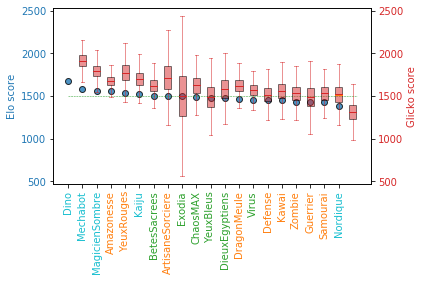
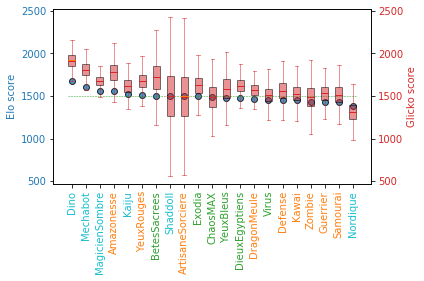
Fixed labels in show_scores(boplot=True)

diff --git a/ygostats.py b/ygostats.py
@@ -374,23 +374,22 @@ def show_bars(use_cm = False):
     fig.tight_layout()
     plt.show()
     
-def show_scores(boxplot=False, step=True):
+def show_scores(boxplot=True, step=False):
     all_decks = ygor.get_all_decks_ranked()
     n_decks = len(all_decks)
     
-    ngames = all_decks.ngames.tolist()
-    nwins = all_decks.nwins.tolist()
-    nloss = all_decks.nloss.tolist()
+    # ngames = all_decks.ngames.tolist()
+    # nwins = all_decks.nwins.tolist()
+    # nloss = all_decks.nloss.tolist()
     labels = all_decks.deck.tolist()
     scores_elo = all_decks.elo
     scores_glicko = all_decks.glicko
     scores_rd = all_decks.rd
-    winrates = all_decks.winrate.tolist()
+    # winrates = all_decks.winrate.tolist()
     xx = list(range(0, n_decks))
         
     # Setup
     fig, ax1 = plt.subplots()
-    cmp = ['Reds', 'Blues', 'Greens_r']
     clr = ['tab:red', 'tab:blue', 'tab:green']
     alpha = 0.8
     
@@ -410,8 +409,8 @@ def show_scores(boxplot=False, step=True):
 
     # ax2: glicko
     ax2 = ax1.twinx()  # instantiate a second axes that shares the same x-axis
-    ax2.set_ylabel('Glicko score', color=clr[0])  # already handled xlabel ax1
-    ax2.tick_params(axis='y', labelcolor=clr[0])
+    ax2.set_ylabel('Glicko score', color=clw)  # already handled xlabel ax1
+    ax2.tick_params(axis='y', labelcolor=clw)
     
     if boxplot:
         nsample = 10000
@@ -430,43 +429,44 @@ def show_scores(boxplot=False, step=True):
         bplt = ax2.boxplot(scores_sample,
                            labels=labels,
                            notch=False, 
-                           meanline=True, 
+                           meanline=True,
+                           positions=range(0, n_decks),
                            showmeans=True,
                            showcaps=True, 
                            showbox=True, 
                            showfliers=False, 
                            manage_ticks=False,
                            patch_artist=True, 
-                           boxprops=dict(facecolor=clr[0], color='k',
+                           boxprops=dict(facecolor=clw, color='k',
                                          alpha=0.5),
-                           capprops=dict(color=clr[0], alpha=0.5),
-                           whiskerprops=dict(color=clr[0], alpha=0.5),
-                           meanprops=dict(color=clr[0], linestyle='-')
+                           capprops=dict(color=clw, alpha=0.5),
+                           whiskerprops=dict(color=clw, alpha=0.5),
+                           meanprops=dict(color=clw, linestyle='-')
                            )
         
     else:
         nsig = 1
         ax2.scatter(labels, scores_glicko, alpha=alpha, 
-                    color=clr[0], edgecolor='k')
+                    color=clw, edgecolor='k')
         if not step:
             ax2.plot(labels, scores_glicko+nsig*scores_rd, 
-                 color=clr[0], linestyle='--', linewidth=0.5)
+                 color=clw, linestyle='--', linewidth=0.5)
             ax2.plot(labels, scores_glicko-nsig*scores_rd, 
-                   color=clr[0], linestyle='--', linewidth=0.5)
+                   color=clw, linestyle='--', linewidth=0.5)
             ax2.fill(np.concatenate([xx, xx[::-1]]),
                       np.concatenate([scores_glicko - nsig * scores_rd,
                                     (scores_glicko + nsig * scores_rd)[::-1]]),
-                          alpha=0.2, label='+-2rd', color=clr[0])
+                          alpha=0.2, label='+-2rd', color=clw)
         else:
             ax2.step(labels, scores_glicko+nsig*scores_rd, 
-                 color=clr[0], linestyle='--', linewidth=0.5,
+                 color=clw, linestyle='--', linewidth=0.5,
                  where='mid')
             ax2.step(labels, scores_glicko-nsig*scores_rd, 
-                   color=clr[0], linestyle='--', linewidth=0.5,
+                   color=clw, linestyle='--', linewidth=0.5,
                    where='mid')
             ax2.fill_between(xx, scores_glicko - nsig * scores_rd, 
                              scores_glicko + nsig * scores_rd, step='mid',
-                             alpha=0.2, label='+-2rd', color=clr[0])
+                             alpha=0.2, label='+-2rd', color=clw)
     
     ax2.hlines(ygor.elo_0,
                xmin=ax2.get_xlim()[0]+1, xmax=ax2.get_xlim()[1]-1,
